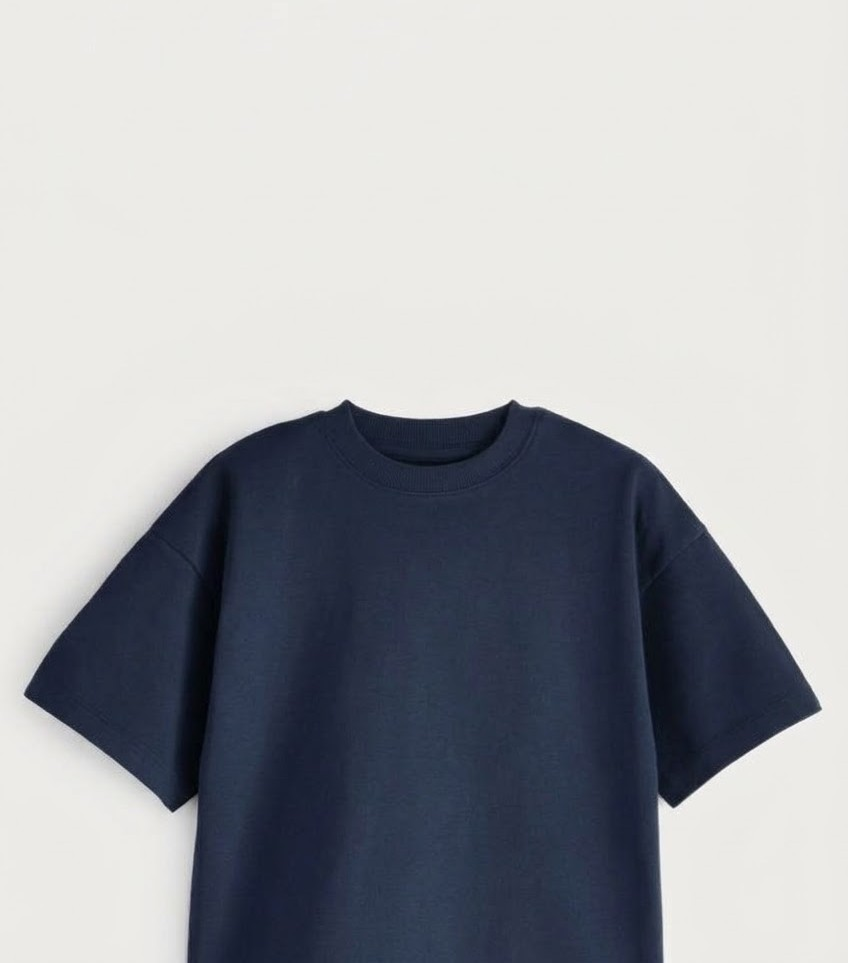
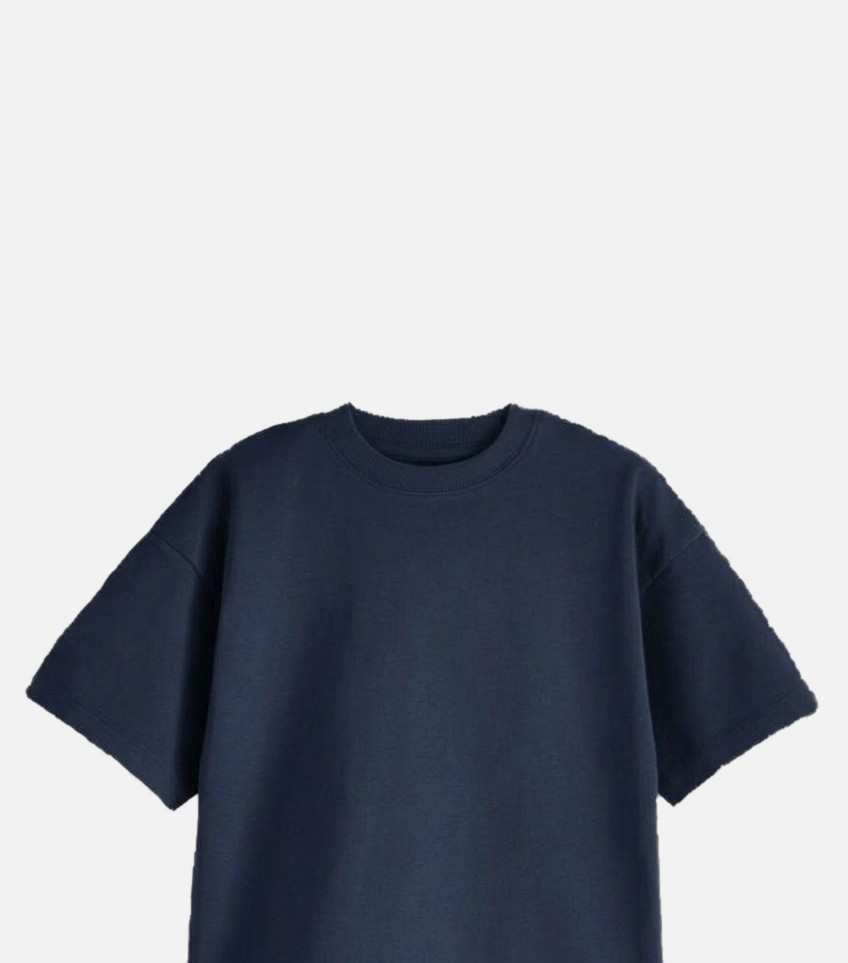
Feed: gender card photos on the product cards' ground (#F2F2F2)
The studio backdrop of the blazer, dress, sweater and tee photos is recoloured
to the product cards' ground, warm shadows included; the clothes and their
labels are untouched.

Claude-Session: https://claude.ai/code/session_01KCijX5vyfJFuXmjiHwZCgW

diff --git a/feed.html b/feed.html
@@ -710,10 +710,10 @@
 
         // ----- Category index ----------------------------------------------
         var CATS = [
-            { g: 'women',  name: 'Women',  img: 'assets/hero/women-dress.jpg?v=1', desc: 'Discover our women’s collection, where timeless elegance meets modern style' },
-            { g: 'men',    name: 'Men',    img: 'assets/hero/men-blazer.jpg?v=1', desc: 'Tailoring, denim and outerwear, picked for everyday wear' },
-            { g: 'unisex', name: 'Unisex', img: 'assets/hero/unisex-tee.jpg?v=2', desc: 'Pieces made to be shared, in easy shapes and quiet colours' },
-            { g: 'kids',   name: 'Kids',   img: 'assets/hero/kids-sweater.jpg?v=1', desc: 'Small sizes, the same care: soft, sturdy and ready to play' }
+            { g: 'women',  name: 'Women',  img: 'assets/hero/women-dress.jpg?v=2', desc: 'Discover our women’s collection, where timeless elegance meets modern style' },
+            { g: 'men',    name: 'Men',    img: 'assets/hero/men-blazer.jpg?v=2', desc: 'Tailoring, denim and outerwear, picked for everyday wear' },
+            { g: 'unisex', name: 'Unisex', img: 'assets/hero/unisex-tee.jpg?v=3', desc: 'Pieces made to be shared, in easy shapes and quiet colours' },
+            { g: 'kids',   name: 'Kids',   img: 'assets/hero/kids-sweater.jpg?v=2', desc: 'Small sizes, the same care: soft, sturdy and ready to play' }
         ];
         // In Art mode the deck shows the art categories instead of the genders.
         var CATS_ART = [
